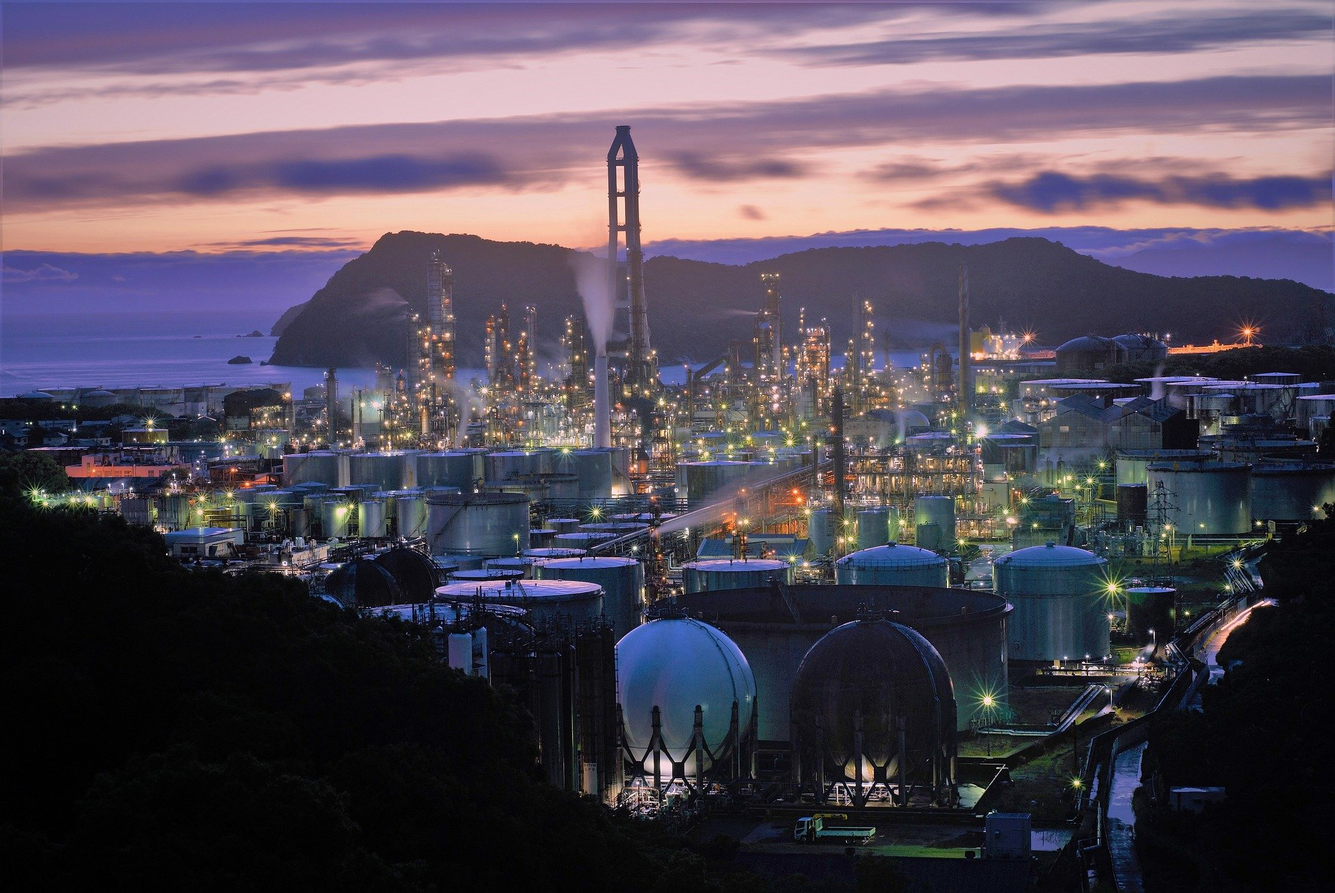
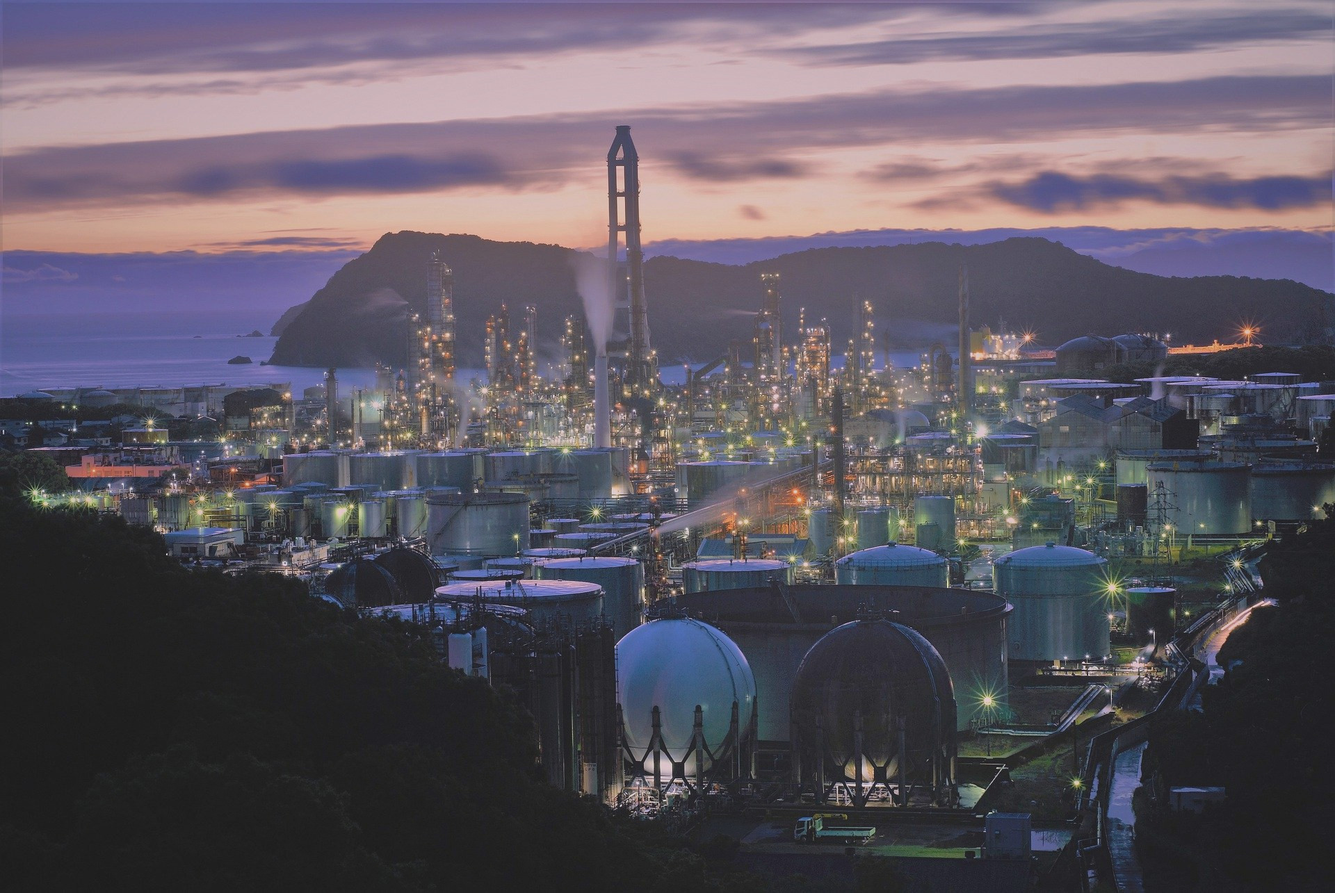
Update style

diff --git a/_sass/2021_sass/_about.scss b/_sass/2021_sass/_about.scss
@@ -144,7 +144,7 @@
     border-radius: 100%;
     text-align: center;
     color: #fff;
-    background-color: #01E3C6;
+    background-color: $primary-color;
 }
 .timeline>li.timeline-inverted {
     .timeline-image {

diff --git a/_sass/2021_sass/_variables.scss b/_sass/2021_sass/_variables.scss
@@ -1,3 +1,3 @@
-$primary-color: #01E3C6;
-$secondary-color: #7B64CE;
-$secondary-dark-color: #0B1E42;
+$primary-color: #29B9AD;
+$secondary-color: #6733D9;
+$secondary-dark-color: #0A1F44;

diff --git a/_sass/2021_sass/_team.scss b/_sass/2021_sass/_team.scss
@@ -5,7 +5,7 @@
   font-size: 140%;
 }
 .team .member h4 {
-  color: #7B64CE ;
+  color: $secondary-color;
 }
 .team .member .message {
     margin-bottom:1em;
